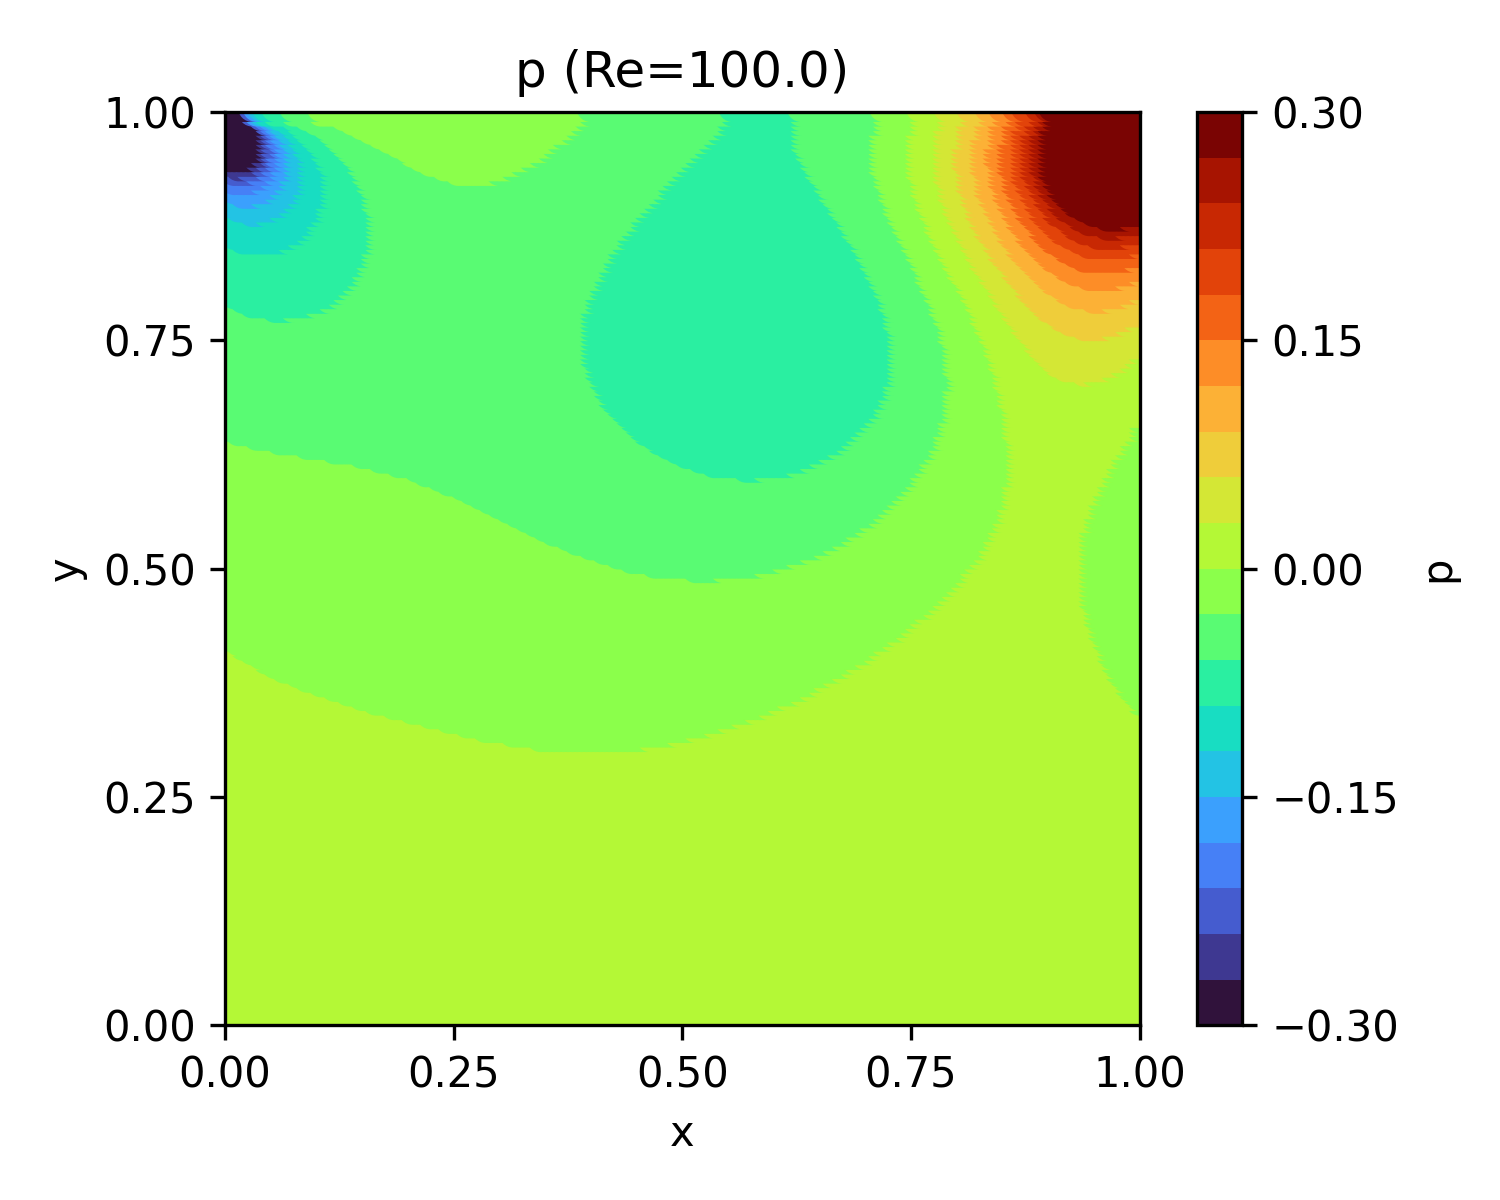
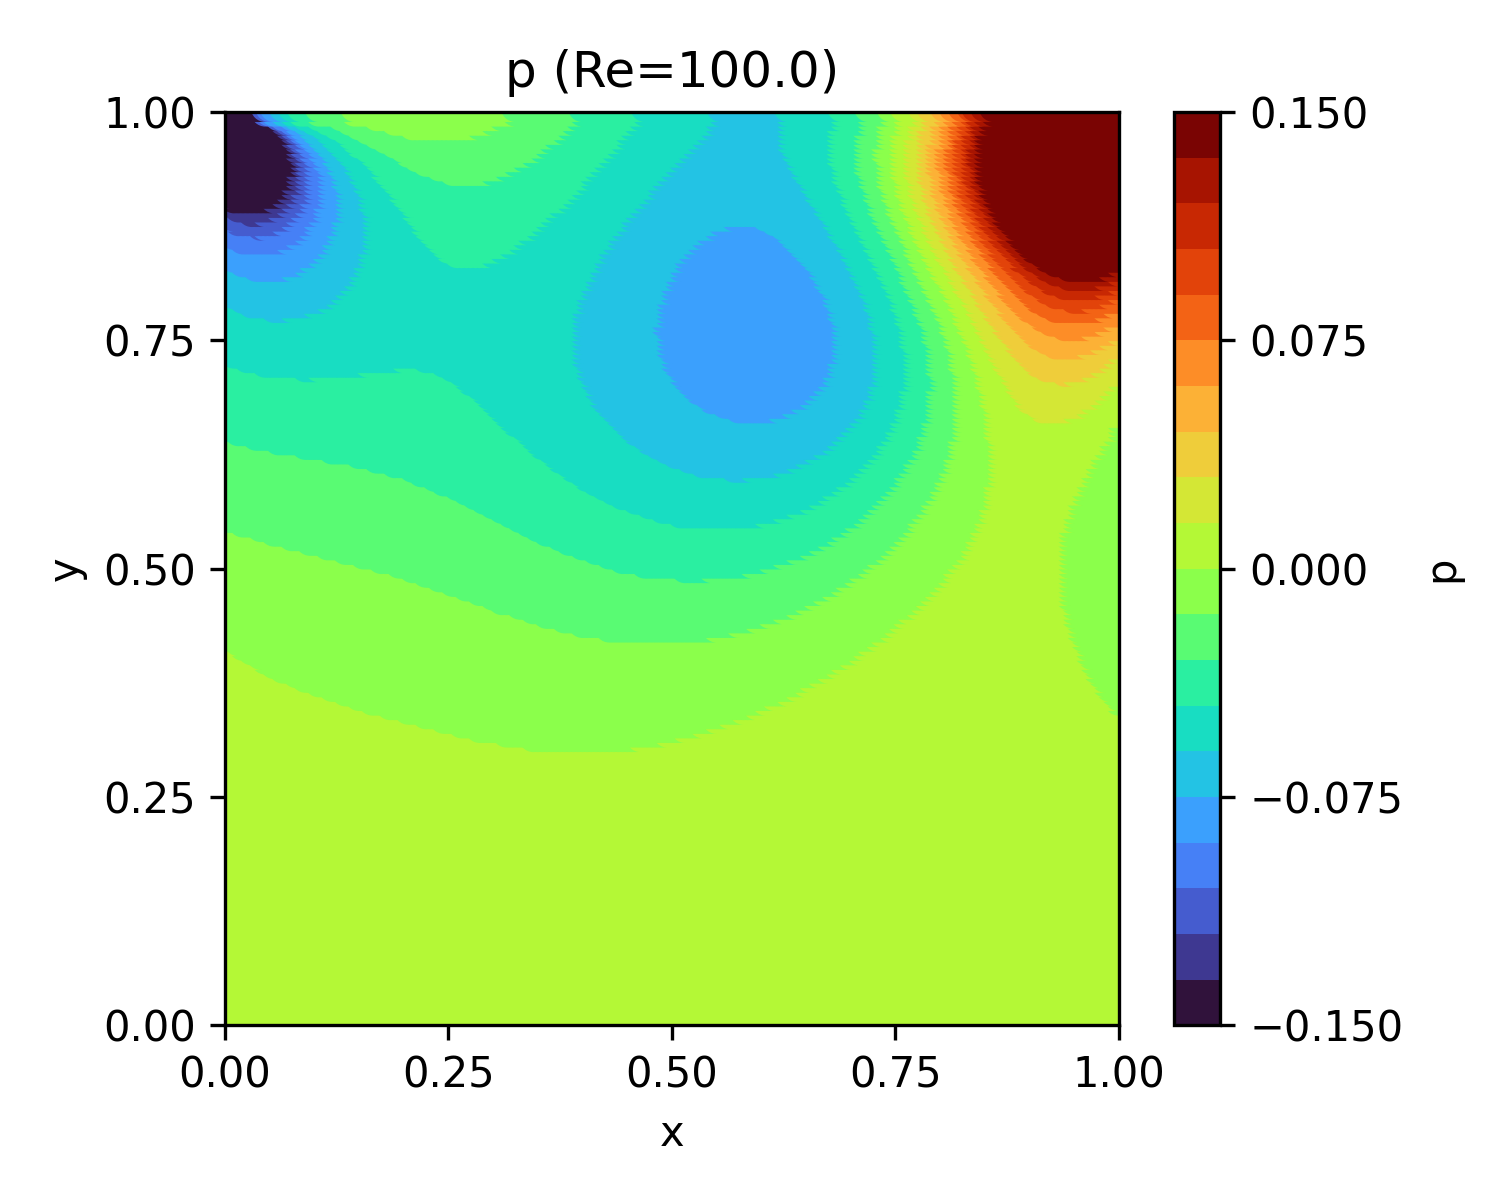
updare prs figures

diff --git a/Re_100/visualize.py b/Re_100/visualize.py
@@ -130,7 +130,7 @@ def main():
     plt.close()
 
     plt.figure(figsize=(5, 4))
-    limit = .3
+    limit = .15
     vmin, vmax = - limit, limit
     # limit = np.abs(p).max()
     # scale = .15
@@ -148,7 +148,6 @@ def main():
     plt.ylabel("y")
     plt.title(f"p (Re={Re:.1f})")
     plt.tight_layout()
-    plt.savefig("./prs.png", dpi=300)
     plt.savefig("./prs.png", dpi=300)
     plt.clf()
     plt.close()

diff --git a/Re_400/visualize.py b/Re_400/visualize.py
@@ -129,7 +129,7 @@ def main():
     plt.close()
 
     plt.figure(figsize=(5, 4))
-    limit = .25
+    limit = .15
     vmin, vmax = - limit, limit
     # limit = np.abs(p).max()
     # scale = .15

diff --git a/Re_400_highres/visualize.py b/Re_400_highres/visualize.py
@@ -129,7 +129,7 @@ def main():
     plt.close()
 
     plt.figure(figsize=(5, 4))
-    limit = .25
+    limit = .15
     vmin, vmax = - limit, limit
     # limit = np.abs(p).max()
     # scale = .15

diff --git a/Re_100_highres/visualize.py b/Re_100_highres/visualize.py
@@ -130,7 +130,7 @@ def main():
     plt.close()
 
     plt.figure(figsize=(5, 4))
-    limit = .3
+    limit = .15
     vmin, vmax = - limit, limit
     # limit = np.abs(p).max()
     # scale = .15
